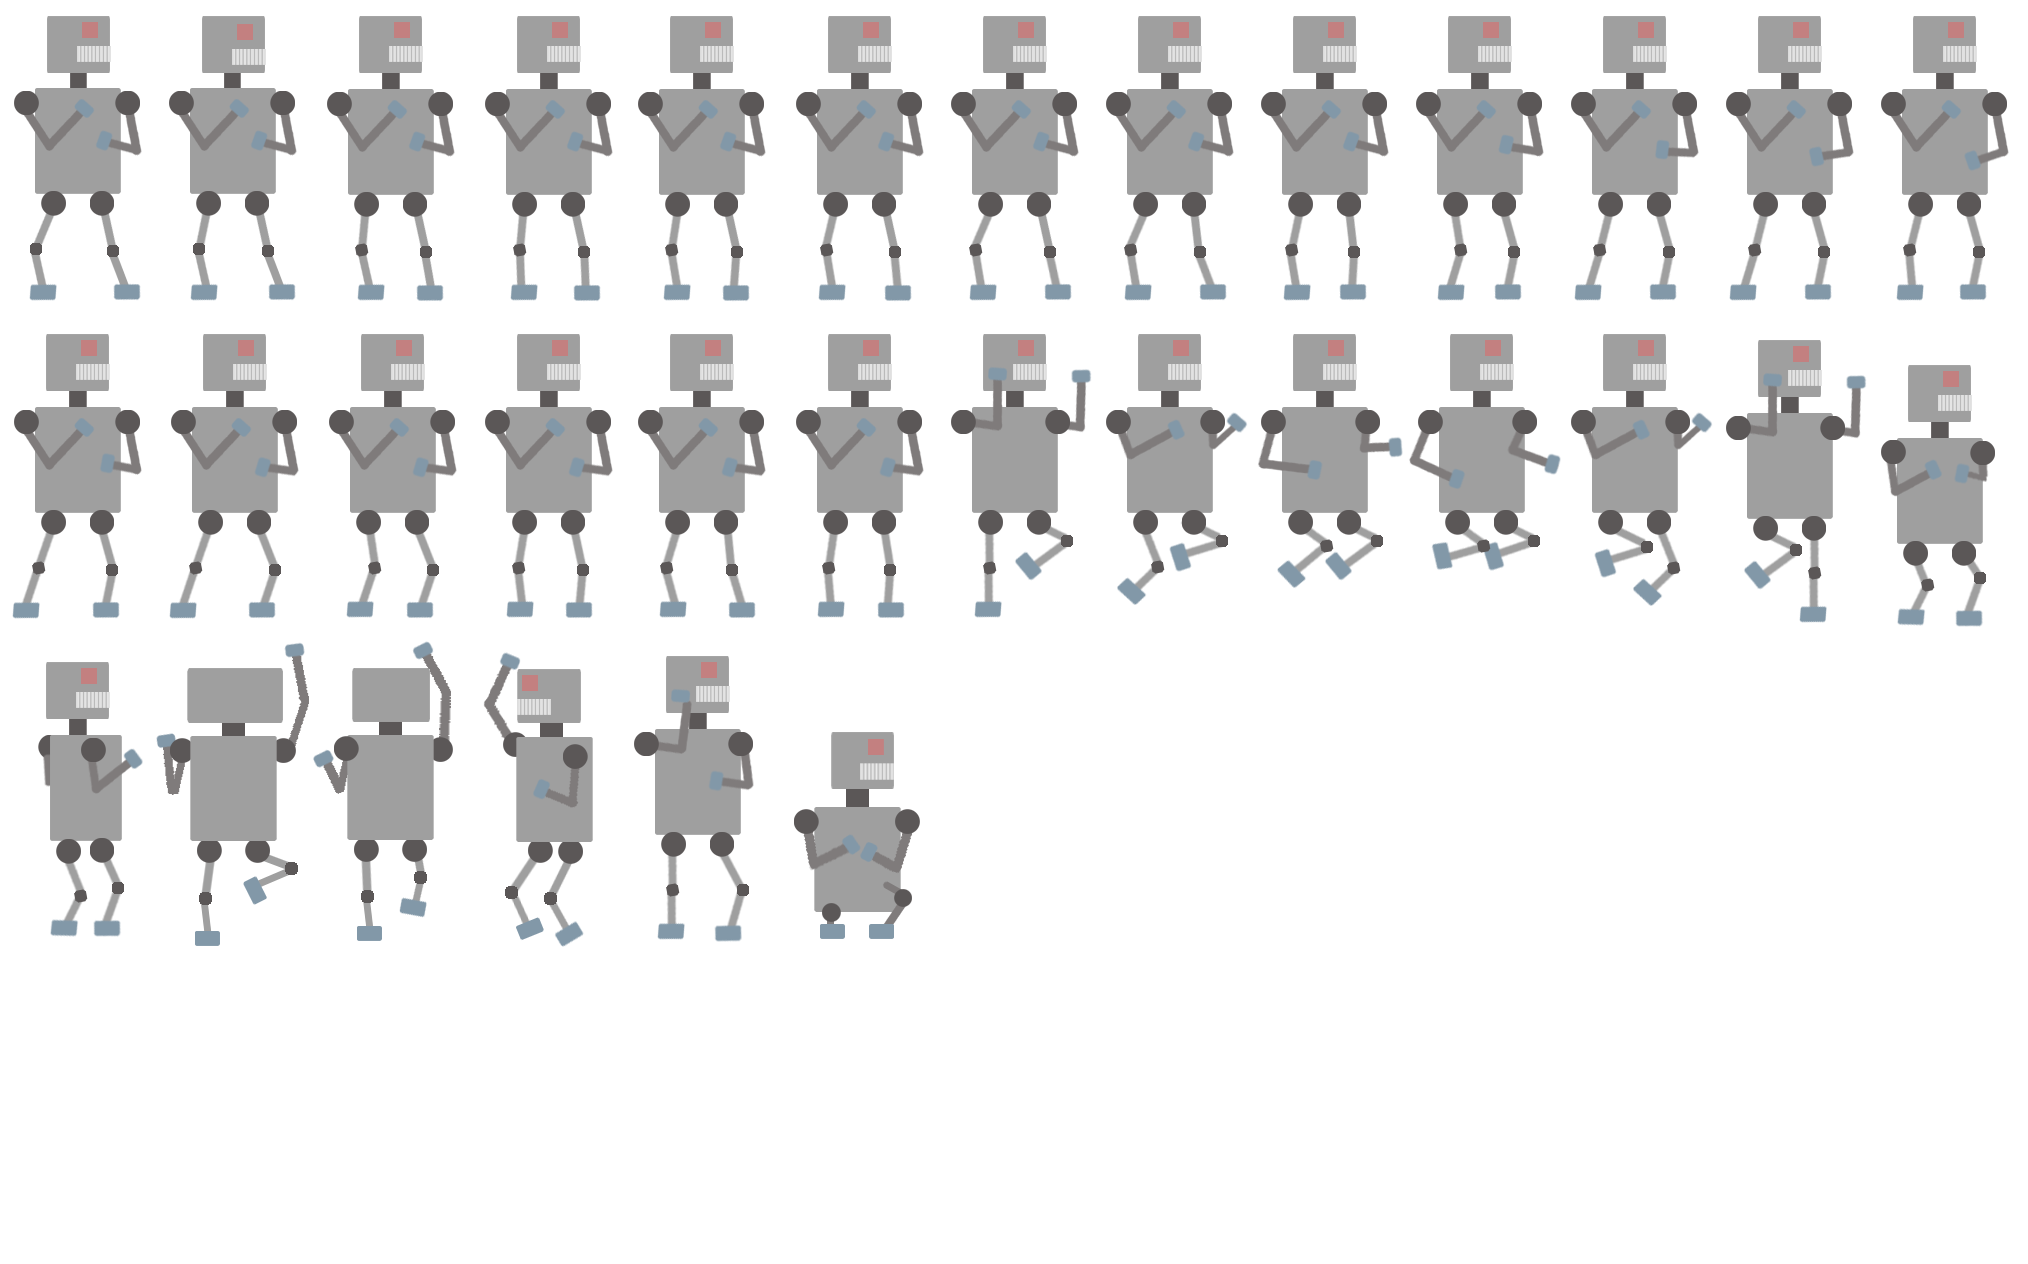
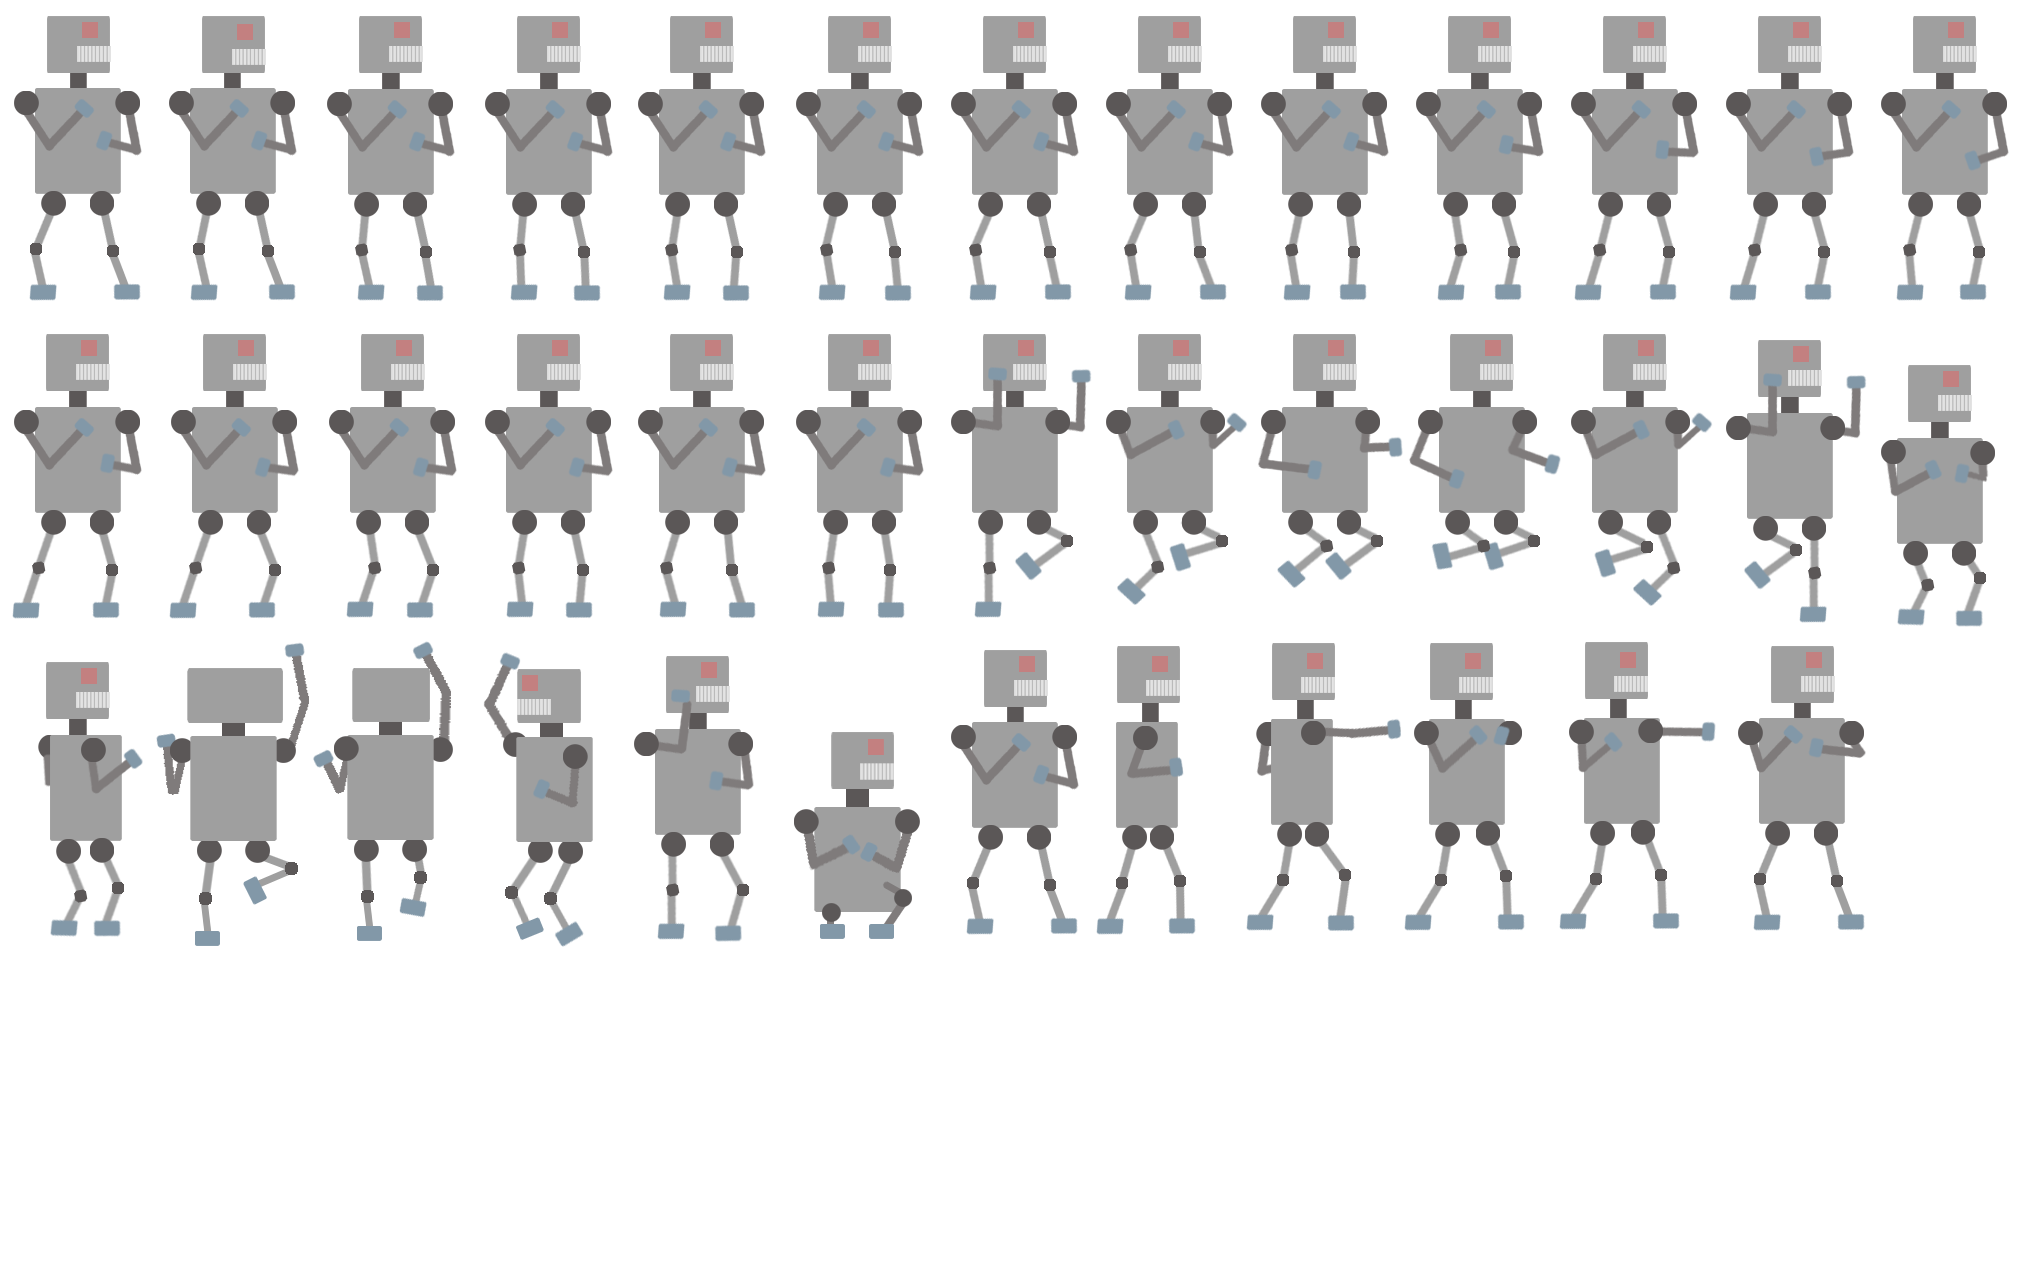
added punch animation

Changed region(s): [[0.6213, 0.4937, 0.932, 0.7405], [0.466, 0.4937, 0.5902, 0.7405]]

diff --git a/js/play.js b/js/play.js
@@ -24,8 +24,8 @@ playState.prototype = {
         
         timer.start();
 
-        player1 = this.game.add.sprite(500, 400, 'ryu');
-        player2 = this.game.add.sprite(850, 400, 'ken');
+        player2 = this.game.add.sprite(500, 400, 'ryu');
+        player1 = this.game.add.sprite(850, 400, 'ken');
         player1.scale.setTo(.8,.8);
         player2.scale.setTo(.8, .8);
         bg.scale.setTo(0.2,0.2);
@@ -113,6 +113,7 @@ playState.prototype = {
         player1.animations.add('jump', [19, 20, 21, 22, 23, 24], 5, true);
         player1.animations.add('shoruken', [25, 26, 27, 28, 29, 30], 7, true);
         player1.animations.add('crouch', [31], 5, true);
+        player1.animations.add('punch', [32, 33, 34, 35, 36], 7,true);
         
         player2.animations.add('idle', [0, 1, 2, 3, 4, 5, 6], 5, true);
         player2.animations.add('backwards', [7, 8, 9, 10, 11, 12], 5, true);
@@ -120,6 +121,7 @@ playState.prototype = {
         player2.animations.add('jump', [19, 20, 21, 22, 23, 24], 5, true);
         player2.animations.add('shoruken', [25, 26, 27, 28, 29, 30], 7, true);
         player2.animations.add('crouch', [31], 5, true);
+        player2.animations.add('punch', [32, 33, 34, 35, 36], 7, true);
 //        player2.animations.add('idle', [0, 1, 2, 3, 4, 5, 6, 7, 8], 5, true);
 //        player2.animations.add('backwards', [10, 11, 12, 13, 14], 5, true);
 //        player2.animations.add('forwards', [15, 16, 17, 18, 19], 5, true);
@@ -130,7 +132,7 @@ playState.prototype = {
         cursors = this.game.input.keyboard.createCursorKeys();
 
         //health bar
-        player1.health = 75;
+        player1.health = 100;
         player1.maxHealth = 100;
         
         this.healthMeterBar = this.game.add.plugin(Phaser.Plugin.HealthMeter);
@@ -142,7 +144,7 @@ playState.prototype = {
                 alpha: 0.6
             });
 
-        player2.health = 50;
+        player2.health = 100;
         player2.maxHealth = 100;
         this.healthMeterBar = this.game.add.plugin(Phaser.Plugin.HealthMeter);
         this.healthMeterBar.bar(player2, {
@@ -165,6 +167,8 @@ playState.prototype = {
         rightButton = this.game.input.keyboard.addKey(Phaser.Keyboard.D);
         tButton = this.game.input.keyboard.addKey(Phaser.Keyboard.T); // for hitbox control
         yButton = this.game.input.keyboard.addKey(Phaser.Keyboard.Y); // for hitbox control
+        zButton = this.game.input.keyboard.addKey(Phaser.Keyboard.Z);
+        qMark = this.game.input.keyboard.addKey(Phaser.Keyboard.QUESTION_MARK);
 
         this.game.physics.arcade.overlap(p1_hitboxes, player2, overlap, null, this);
 
@@ -192,6 +196,9 @@ playState.prototype = {
                 player1.body.velocity.x = 0;
                 player1.animations.play('crouch');
             }
+        else if(zButton.isDown) {
+            player1.animations.play('punch');
+        }
         else {
             //  Stand still
             if (player1.body.onFloor()) {
@@ -204,6 +211,7 @@ playState.prototype = {
                 player1.body.velocity.y = -550;
                 player1.animations.play('jump');
             }
+        
 
         
         
@@ -229,6 +237,9 @@ playState.prototype = {
             player2.body.velocity.x = 0;
             player2.animations.play('crouch');
         }
+        else if(qMark.isDown) {
+            player2.animations.play('punch');
+        }
         else {
             if (player2.body.onFloor()) {
                 player2.animations.play('idle');
@@ -239,6 +250,7 @@ playState.prototype = {
                 player2.body.velocity.y = -550;
                 player2.animations.play('jump');
             }
+        
 
 
         // p1_hitboxes controls
@@ -291,7 +303,7 @@ function enableHitbox(hitboxName) {
     for(var i = 0; i < p1_hitboxes.children.length; i++){
 
         if(p1_hitboxes.children[i].name === hitboxName){
-            p1_hitboxes.children[i].reset(50,30);   // this is the specific location of the head hitbox            
+            p1_hitboxes.children[i].reset(50,30);   // this is the specific location of the head hitbox ad           
 
         }
     }
